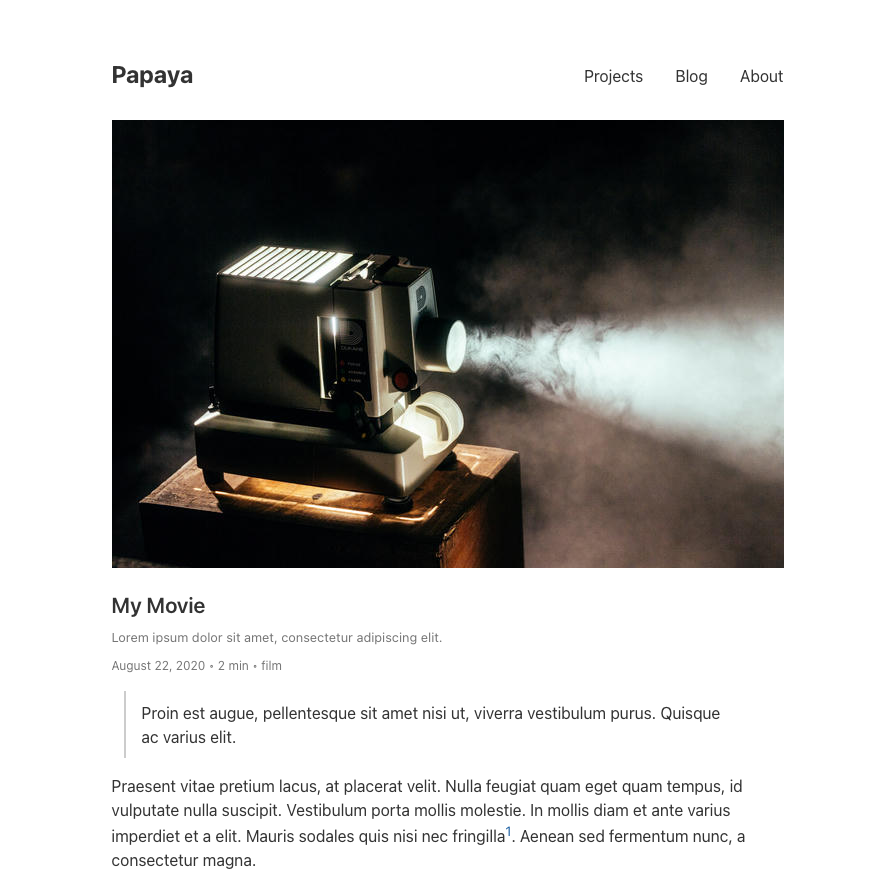
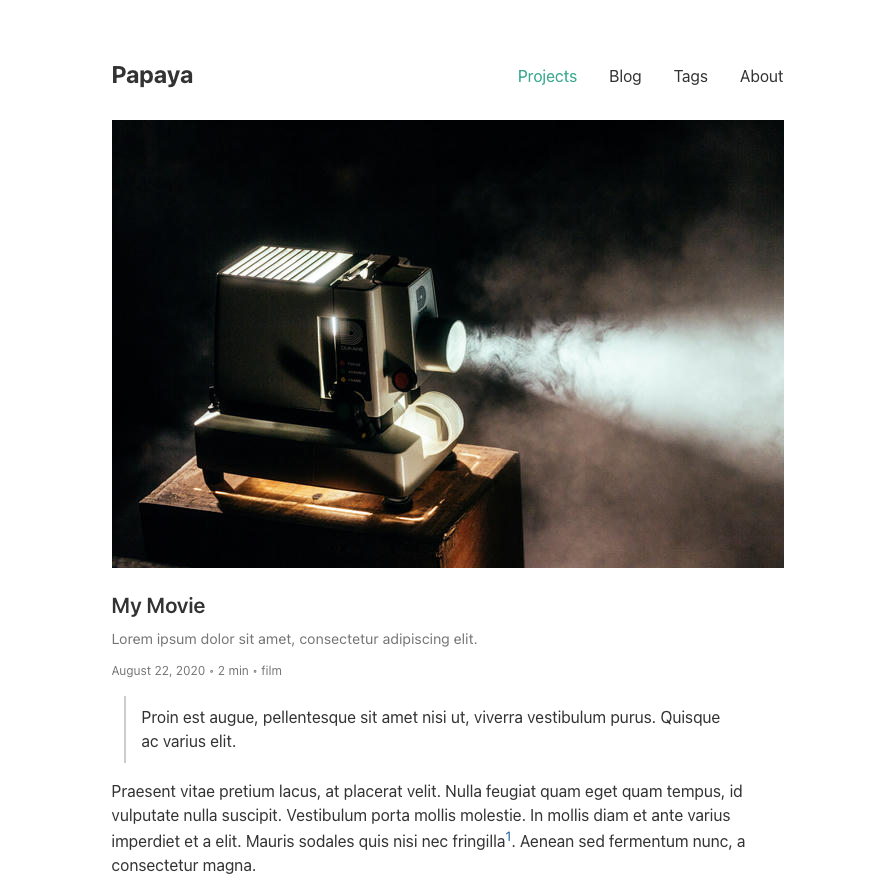
Slight header/nav styling adjustments

diff --git a/sass/main.scss b/sass/main.scss
@@ -280,6 +280,10 @@ article header h1 {
     }
 }
 
+article header h2 {
+    font-size: 0.9em;
+}
+
 .article-info {
     font-size: 0.75em;
     color: $a11y-gray;
@@ -555,11 +559,10 @@ footer {
 
     header {
         nav {
-            margin-top: 1em;
+            margin-top: 0em;
             max-width: 100%;
             text-align: center;
             background: #fafafa;
-            padding: 0.5em 0;
         }
 
         nav {
@@ -570,7 +573,7 @@ footer {
             }
 
             li {
-                padding: 1em;
+                padding: 0.5em 1em;
             }
 
             a:first-of-type {
